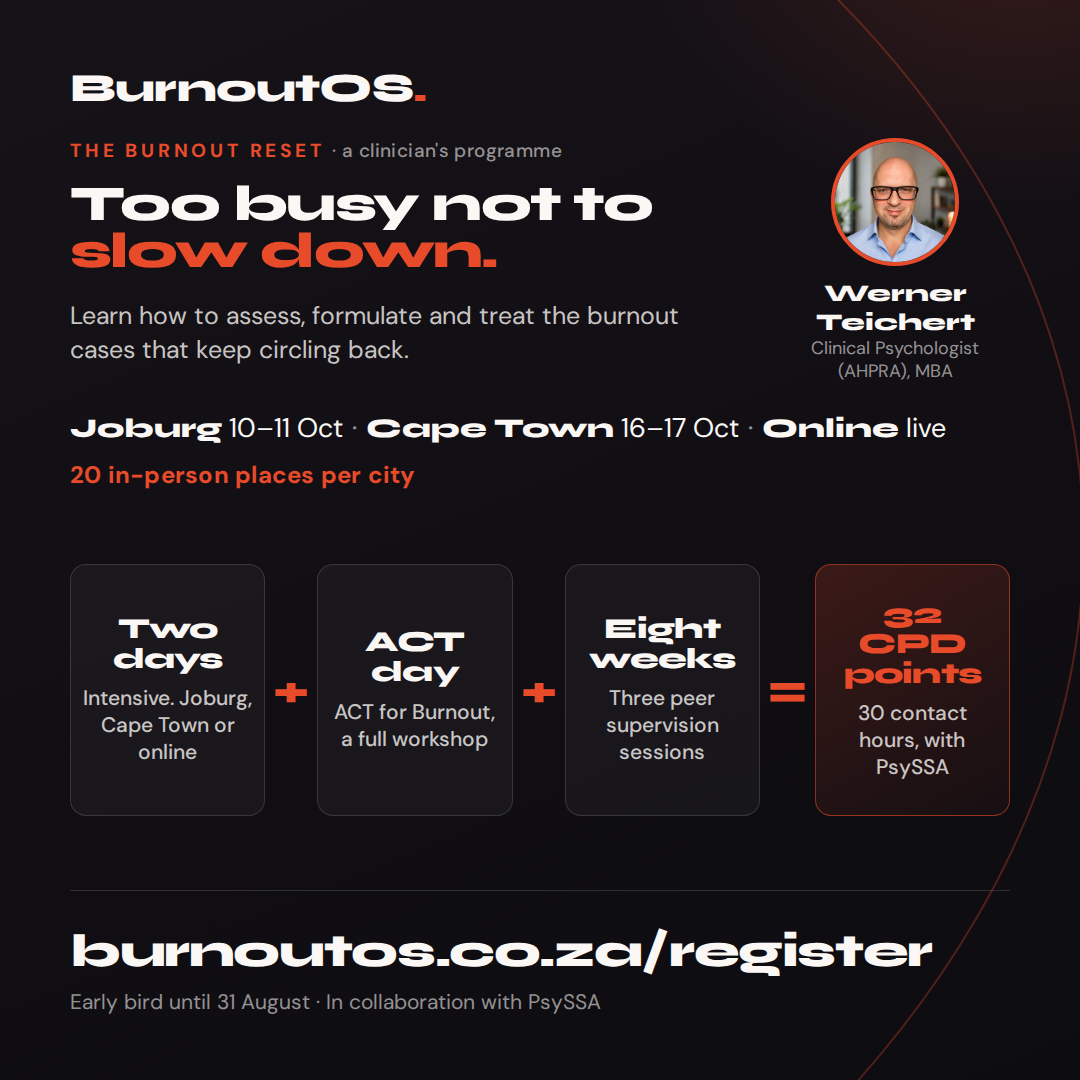
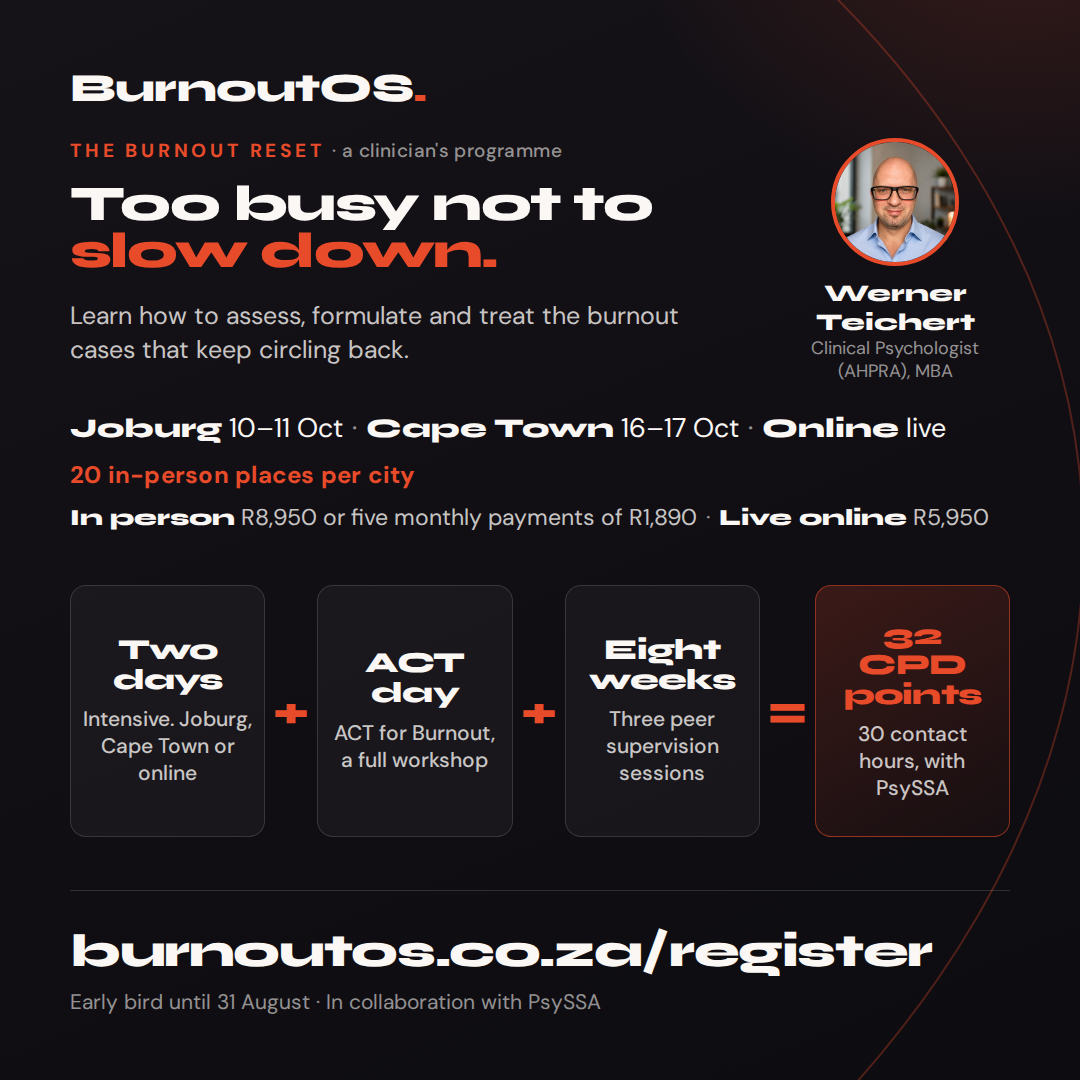
Add pricing and payment options to the SA tour posters
Read from the live register page rather than assumed. Instalments are
five monthly payments of R1,890 at early bird, taken today then monthly
for four months.

The line is scoped to the in-person seat because applyPaymentVisibility
in register.html hides the payment choice when the cohort is online, so
the online stream is one card payment only. Stating instalments without
that scope would have promised an option the form does not offer.

diff --git a/src/posters/build_posters.py b/src/posters/build_posters.py
@@ -39,6 +39,10 @@ h1 em{color:#E84B2A;font-style:normal;}
 .dates b{font-family:'Syne';font-variation-settings:'wght' 800;}
 .dates i{color:var(--dim);font-style:normal;margin:0 9px;}
 .scarce{color:#E84B2A;font-weight:700;letter-spacing:.01em;}
+.pay{color:var(--mut);}
+.pay b{font-family:'Syne';font-variation-settings:'wght' 800;color:var(--fg);}
+.pay i{color:var(--dim);font-style:normal;margin:0 9px;}
+.sq .pay{font-size:23px;} .ld .pay{font-size:20px;}
 .sq .scarce{font-size:24px;} .ld .scarce{font-size:20px;}
 .headwrap{display:flex;flex-direction:column;align-items:center;text-align:center;z-index:3;flex:0 0 auto;}
 .sq .headwrap{width:230px;} .ld .headwrap{width:200px;}
@@ -118,6 +122,8 @@ def square(pid, theme, qr):
  <div class="dates"><b>Joburg</b> 10&ndash;11 Oct<i>&middot;</i><b>Cape Town</b> 16&ndash;17 Oct<i>&middot;</i><b>Online</b> live</div>
  <div style="height:14px"></div>
  <div class="scarce">20 in-person places per city</div>
+ <div style="height:12px"></div>
+ <div class="pay"><b>In person</b> R8,950 or five monthly payments of R1,890<i>&middot;</i><b>Live online</b> R5,950</div>
  <div class="spacer"></div>
  {vs}
  <div class="spacer"></div>
@@ -147,6 +153,8 @@ LD = """
  <div class="dates"><b>Joburg</b> 10&ndash;11 Oct<i>&middot;</i><b>Cape Town</b> 16&ndash;17 Oct<i>&middot;</i><b>Online</b> live</div>
  <div style="height:10px"></div>
  <div class="scarce">20 in-person places per city</div>
+ <div style="height:9px"></div>
+ <div class="pay"><b>In person</b> R8,950 or five monthly payments of R1,890<i>&middot;</i><b>Live online</b> R5,950</div>
  <div class="spacer"></div>
  {vs}
  <div class="spacer"></div>
